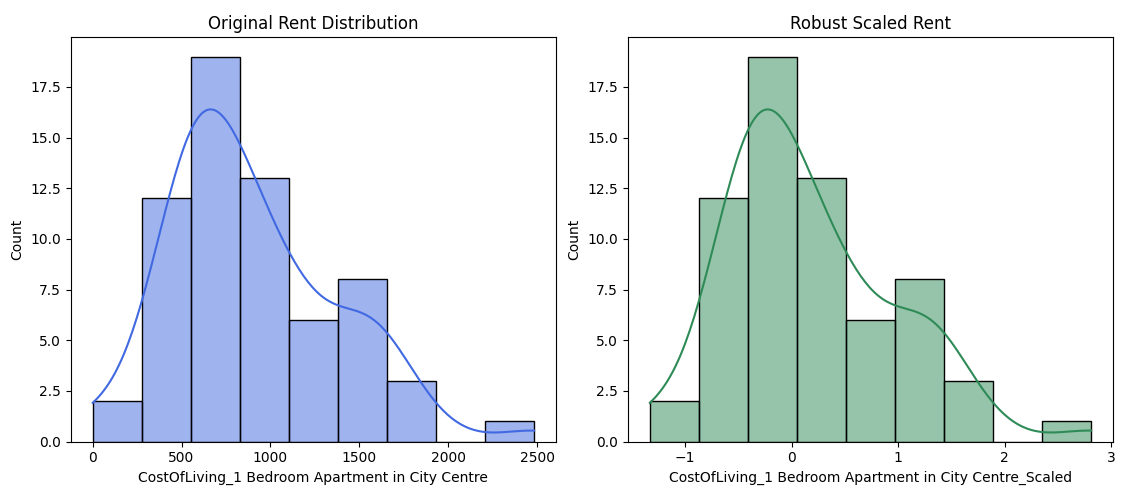
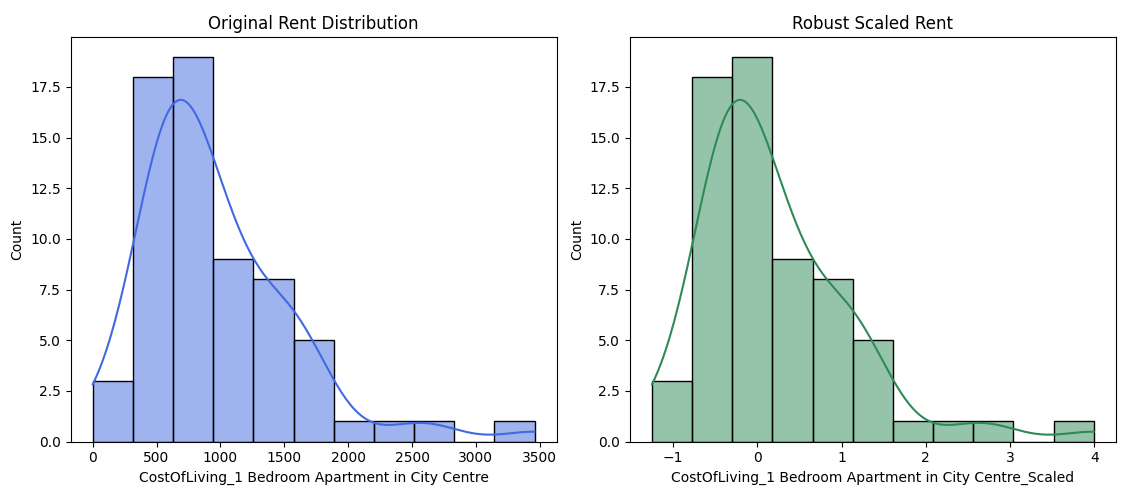
Inject California baseline and finalize official GARI rankings

diff --git a/join repo/append_california_baseline.py b/join repo/append_california_baseline.py
@@ -1,0 +1,37 @@
+import pandas as pd
+
+# 1. Load the wide-format master dataset
+input_filename = 'master_combined_dataset.csv'
+df = pd.read_csv(input_filename)
+
+# 2. Define the US Control Data
+# Rent data pulled live from Numbeo (March 5, 2026)
+# US GPI = 2.448, US LPI = 3.8
+california_data = [
+    {
+        'Country': 'United States',
+        'City': 'San Francisco',
+        'Region': 'North America',
+        'CostOfLiving_1 Bedroom Apartment in City Centre': 3459.00,
+        'GPI_score\xa0': 2.448,
+        'LPI2023_LPI Score': 3.8
+    },
+    {
+        'Country': 'United States',
+        'City': 'Los Angeles',
+        'Region': 'North America',
+        'CostOfLiving_1 Bedroom Apartment in City Centre': 2675.00,
+        'GPI_score\xa0': 2.448,
+        'LPI2023_LPI Score': 3.8
+    }
+]
+
+df_cali = pd.DataFrame(california_data)
+
+# 3. Append to the master dataset
+df_combined = pd.concat([df, df_cali], ignore_index=True)
+
+# 4. Save and overwrite the master dataset
+df_combined.to_csv(input_filename, index=False)
+print(f"Success! San Francisco and Los Angeles appended to {input_filename}.")
+print(f"Total rows is now: {len(df_combined)}")

diff --git a/data_dictionary.md b/data_dictionary.md
@@ -18,3 +18,5 @@
 
 | \*\*Validation Benchmark\*\* | OECD Better Life Index | Feb 19, 2026 | External validation for rankings | CSV | Currently facing naming formatting mismatches requiring resolution. |
 
+| \*\*California Baseline (Control)\*\* | Numbeo / GPI / WB LPI (Manual Extract) | Mar 5, 2026 | Rent, US Safety (2.448), US LPI (3.8) | Hardcoded | Acts as the control anchor to calculate the "Net-Income Stretch" (Arbitrage Gap). |
+
